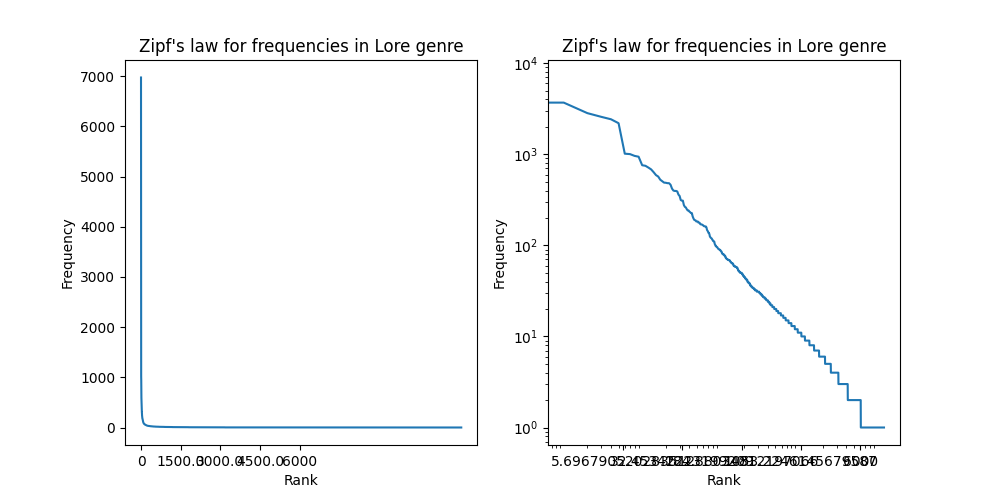
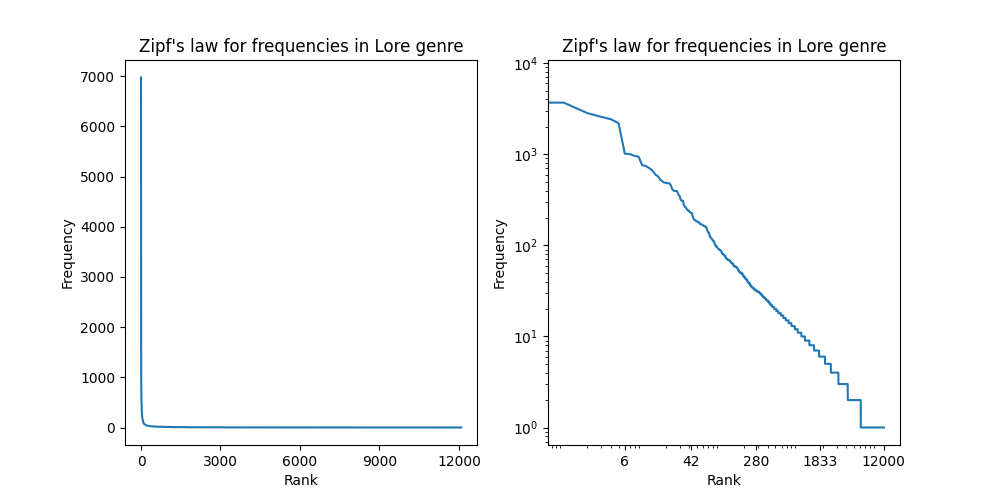
problem 0

diff --git a/problem0.py b/problem0.py
@@ -46,9 +46,11 @@ def get_word_frequecy(words):
 
 def plot_zipf(word_frequency, genres_names, idx):
     # get max frequency for x axis
-    max_freq = word_frequency[0][1]
+    max_freq = len(word_frequency)
     # round on nearest 1000
-    max_freq = int(max_freq/1000)*1000
+    rounder1 = lambda x: int(x/1000)*1000
+    max_freq = rounder1(max_freq)
+    
 
     # plot Zipf's law for frequencies, two supplots one figure
     plt.figure(figsize=(10, 5))
@@ -57,14 +59,14 @@ def plot_zipf(word_frequency, genres_names, idx):
     plt.title(f'Zipf\'s law for frequencies in {genres_names[idx]}')
     plt.xlabel('Rank')
     # set x labels less frequent set 5 ticks from 0 to max_freq
-    plt.xticks([0, max_freq/4, max_freq/2, 3*max_freq/4, max_freq], [0, max_freq/4, max_freq/2, 3*max_freq/4, max_freq])
+    plt.xticks([0, max_freq/4, max_freq/2, 3*max_freq/4, max_freq], [0, int(max_freq/4), int(max_freq/2), int(3*max_freq/4), max_freq])
     plt.ylabel('Frequency')
     plt.subplot(1, 2, 2)
     # log-log plot
     plt.loglog([x[0] for x in word_frequency], [x[1] for x in word_frequency])
     plt.title(f'Zipf\'s law for frequencies in {genres_names[idx]}')
     # set x labels log scale 5 ticks from 1 to max_freq log scale
-    plt.xticks([max_freq**0.2, max_freq**0.4, max_freq**0.6, max_freq**0.8, max_freq], [max_freq**0.2, max_freq**0.4, max_freq**0.6, max_freq**0.8, max_freq])
+    plt.xticks([int(max_freq**0.2), int(max_freq**0.4), int(max_freq**0.6), int(max_freq**0.8), max_freq], [int(max_freq**0.2), int(max_freq**0.4), int(max_freq**0.6), int(max_freq**0.8), max_freq])
 
     plt.xlabel('Rank')
     plt.ylabel('Frequency')
@@ -115,7 +117,7 @@ def main(genres, genres_names):
         
         #Run part-of-speech tagger on the dataset and identify the ten most frequent POS tags.
         pos_tags = most_freq_pos_tag(words)
-        print(f'The ten most frequent POS tags in the {genres_names[idx]} genre are: {pos_tags[:10]}')
+        print(f'The ten most frequent POS tags in the {genres_names[idx]} genre are: {pos_tags[:18]}')
 
         #get word counts of unique words
         word_frequency = get_word_frequecy(words)
